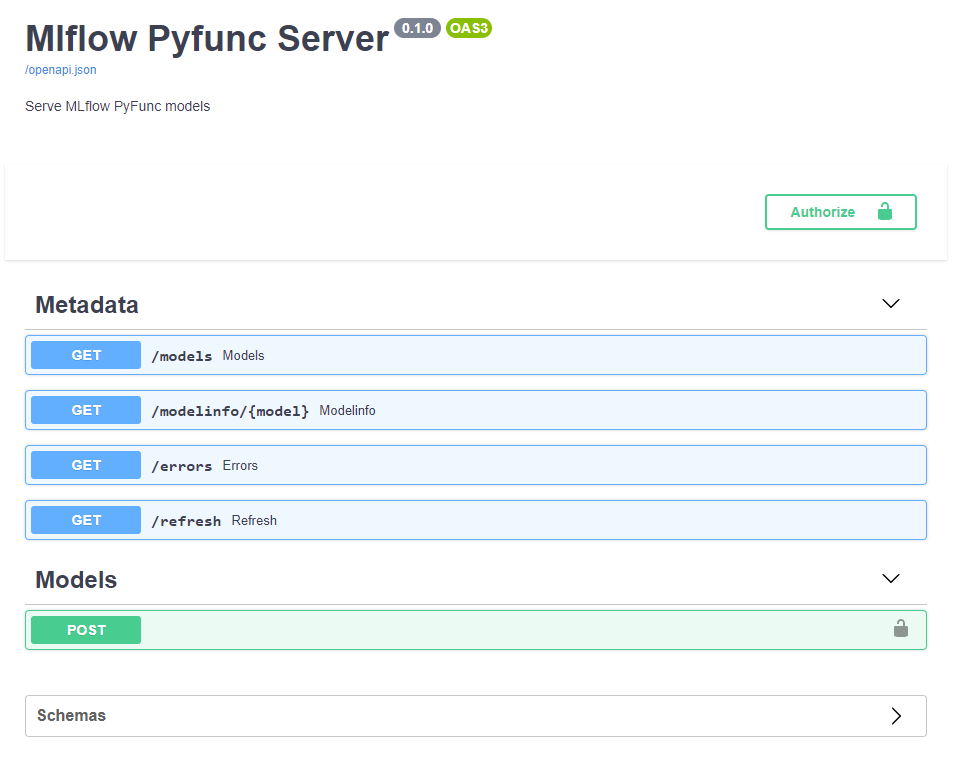
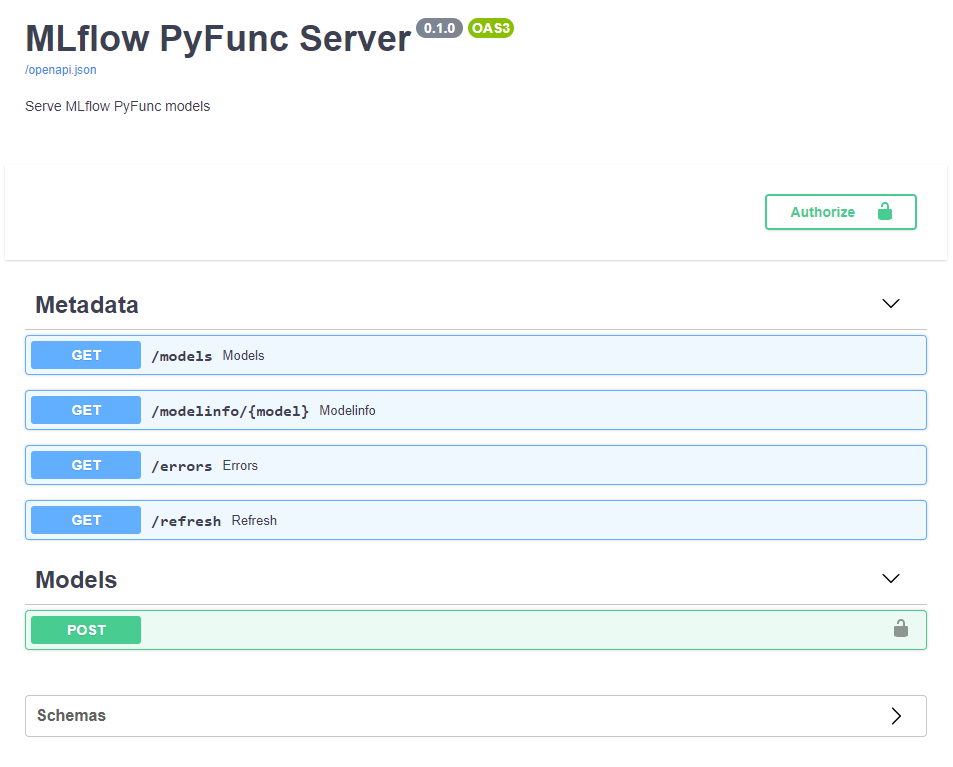
update action

Changed region(s): [[0.0609, 0.0, 0.5477, 0.09]]

diff --git a/mlflow_pyfunc_server/server.py b/mlflow_pyfunc_server/server.py
@@ -68,7 +68,7 @@ class Server:
             if self.app.openapi_schema:
                 return self.app.openapi_schema
             openapi_schema = get_openapi(
-                title="Mlflow Pyfunc Server",
+                title="MLflow PyFunc Server",
                 version=__version__,
                 description="Serve MLflow PyFunc models",
                 routes=self.app.routes,
